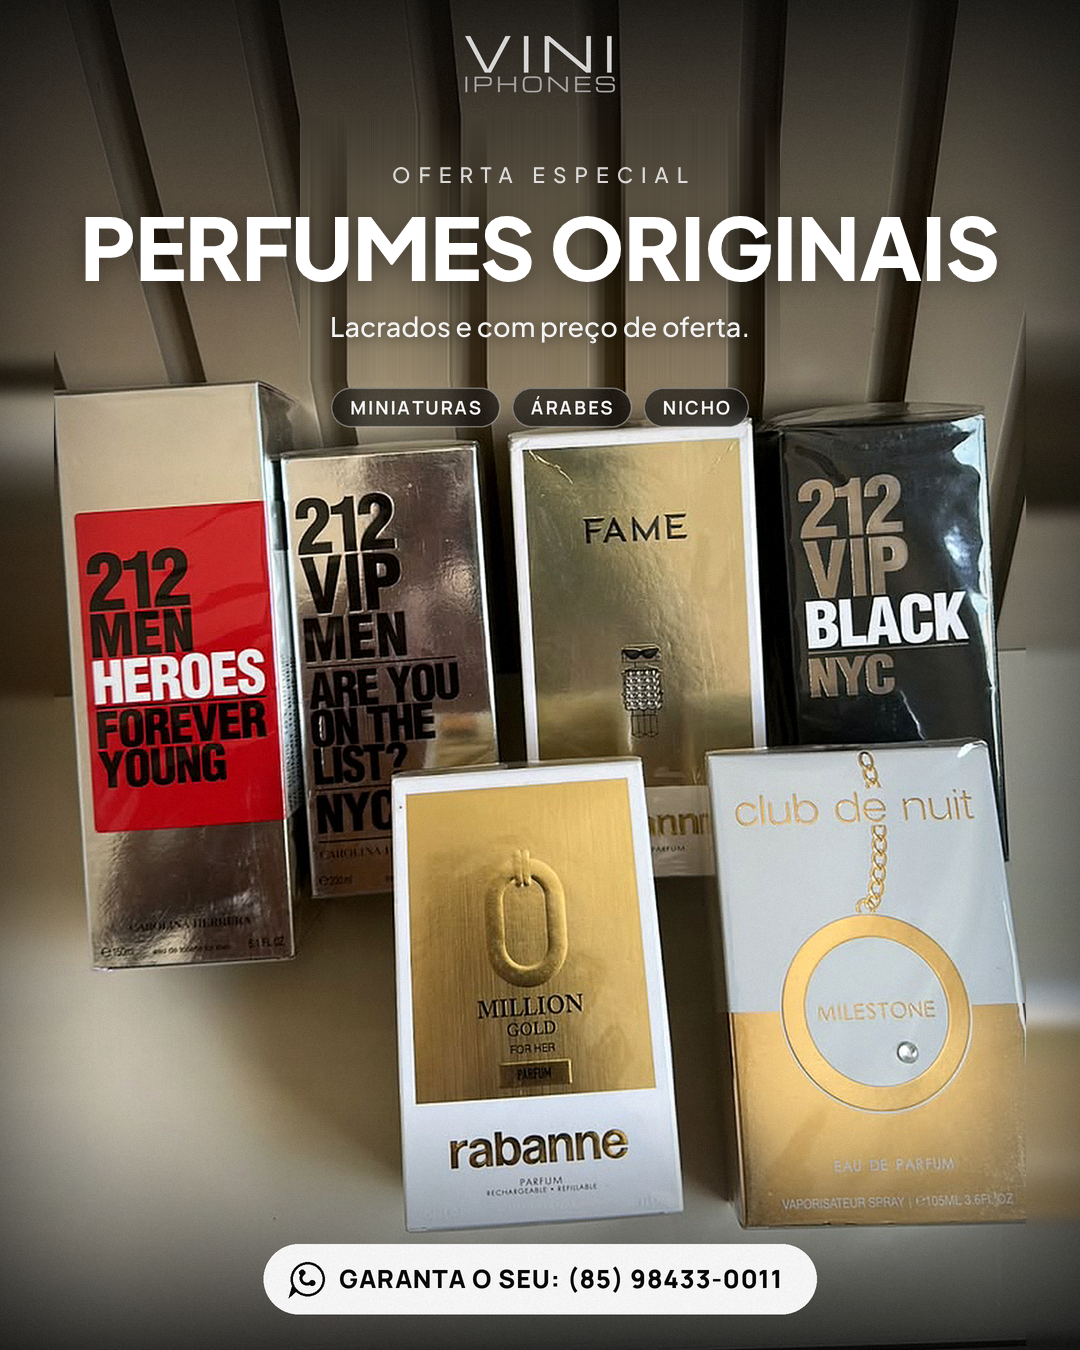
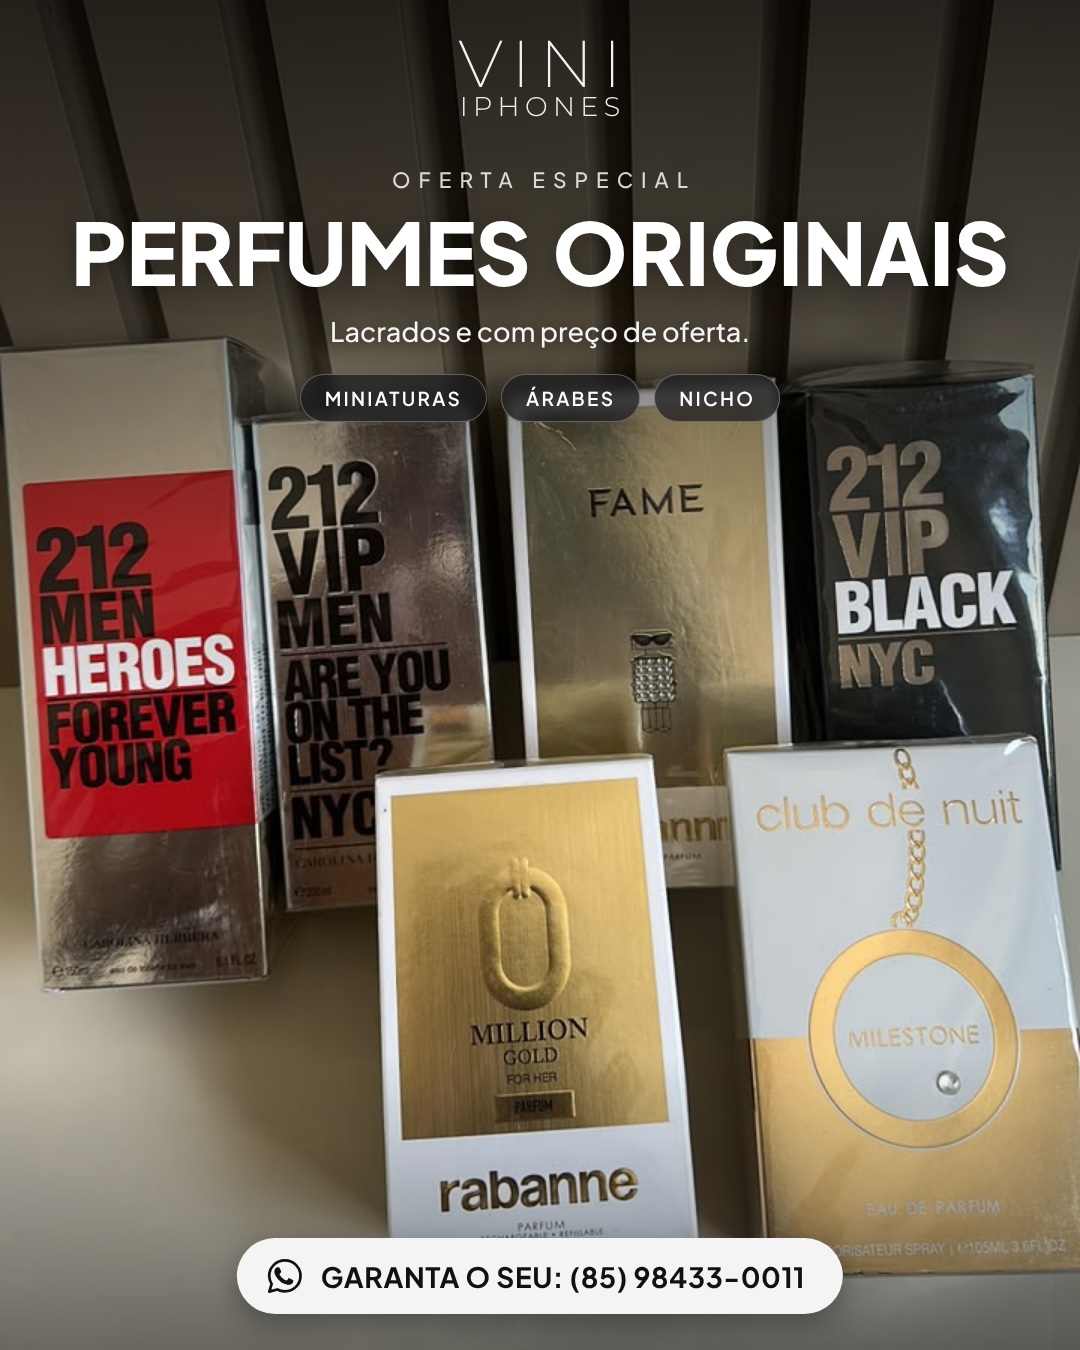
Perfumes: post refeito no gerador com a foto original, sem área borrada
Claude-Session: https://claude.ai/code/session_01PhDRCUWGXWPHs6d3AsBF7P

diff --git a/CLAUDE.md b/CLAUDE.md
@@ -39,9 +39,6 @@ node render.js --story    # versões stories 1080x1920 (enquadramento no bloco "
 Stories: mesmo layout do feed, com texto começando abaixo de 230px e o botão do WhatsApp
 250px acima da base, para não ficarem sob a interface do Instagram.
 
-Arte pronta (ex.: perfumes, feita fora do gerador): para trocar só o título, apague o texto antigo
-(fotos/perfumes-arte-sem-titulo.png) e use `node titulo-sobre-arte.js <arte> <saida> "<TÍTULO>" <centroY> "<CHAMADA>" "<FRASE>"`.
-
 Fotos de fornecedor/print: recorte antes (tire barra do celular, logos e preços de outras lojas,
 textos sobrepostos) e salve em fotos/. Legendas e copy de anúncio ficam em `legendas.md`.
 
